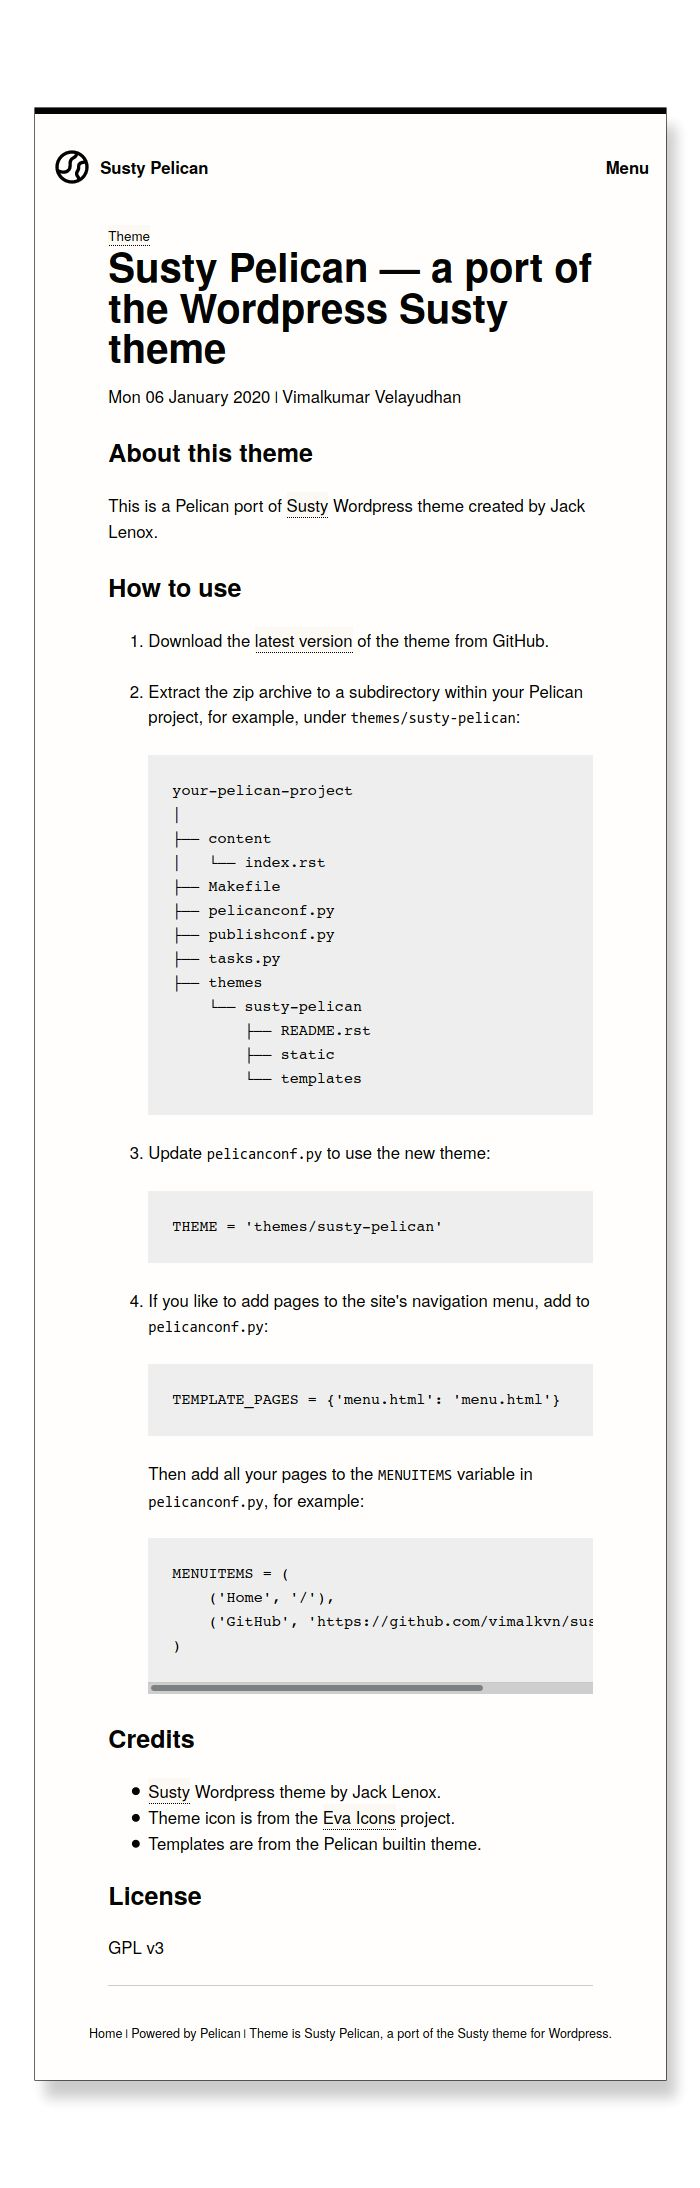
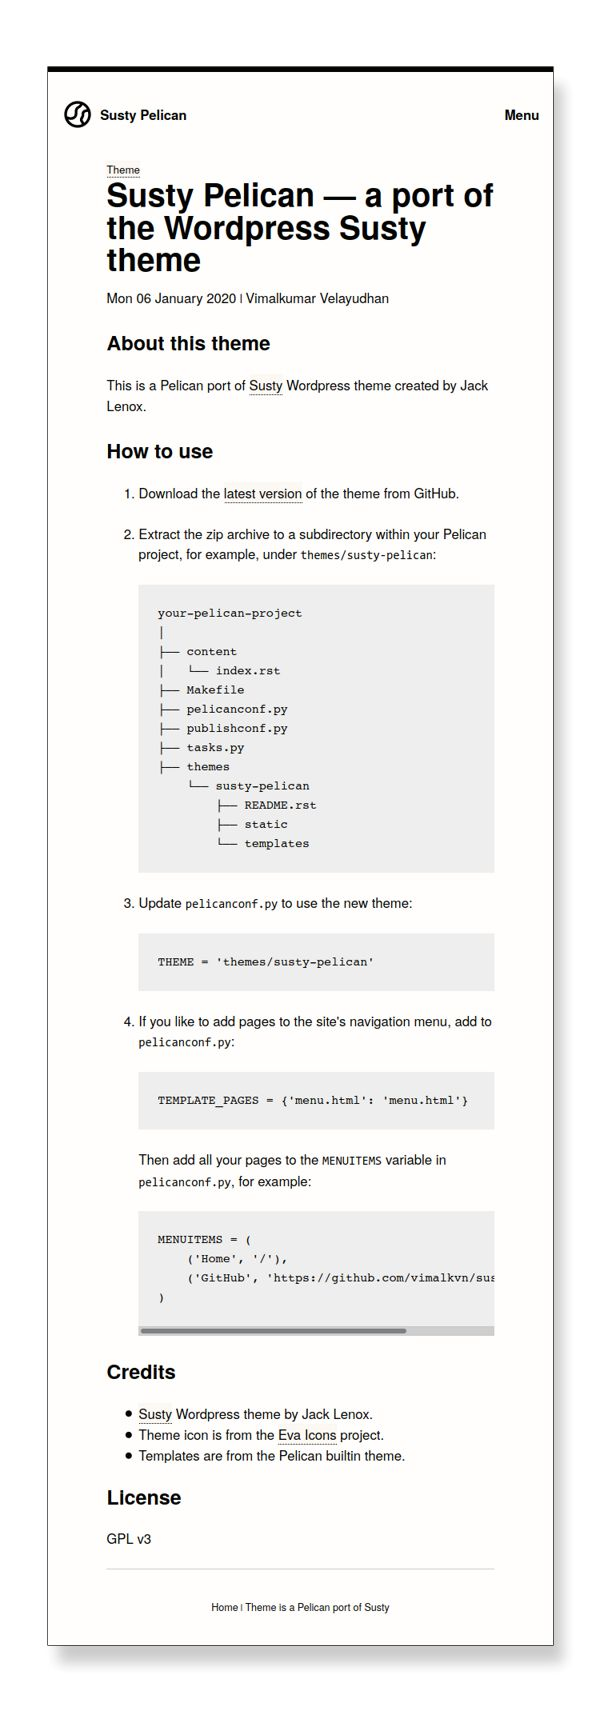
Simplify footer text, Update README and screenshots

Changed region(s): [[0.06, 0.0308, 0.99, 0.9843]]

diff --git a/templates/base.html b/templates/base.html
@@ -80,10 +80,10 @@
         </div>
     </div>
     <footer id="colophon">
-        <a href="{{ SITEURL }}">Home</a> &VerticalSeparator; Powered by <a
-            href="https://docs.getpelican.com">Pelican</a> &VerticalSeparator;
-        Theme is <a href="http://github.com/vimalkvn/susty-pelican/">Susty Pelican</a>, a port of
-        the <a href="https://github.com/jacklenox/susty">Susty</a> theme for Wordpress.
+        <a href="{{ SITEURL }}">Home</a> &VerticalSeparator;
+        <a href="http://github.com/vimalkvn/susty-pelican/">Theme</a> is a <a
+            href="https://docs.getpelican.com">Pelican</a> port of
+        <a href="https://github.com/jacklenox/susty">Susty</a>
     </footer>
 </div>
 </body>

diff --git a/README.rst b/README.rst
@@ -3,6 +3,10 @@ Susty Pelican
 This is a port of the Susty_ Wordpress theme to be used
 with the Pelican_ static site generator.
 
+Demo
+----
+A `live demo`_ is available.
+
 Screenshots
 -----------
 **Main page listing all posts:**
@@ -58,7 +62,7 @@ How to use
    ``pelicanconf.py``, for example::
 
         MENUITEMS = (
-            ('Home', '/'),
+            ('Home', 'https://vimalkvn.github.io/susty-pelican'),
             ('GitHub', 'https://github.com/vimalkvn/susty-pelican')
         )
 
@@ -75,5 +79,6 @@ GPL v3
 .. Links
 .. _Eva Icons: https://github.com/akveo/eva-icons
 .. _latest version: https://github.com/vimalkvn/susty-pelican/archive/master.zip
+.. _live demo: https://vimalkvn.github.io/susty-pelican
 .. _Pelican: https://github.com/getpelican/pelican
 .. _Susty: https://github.com/jacklenox/susty
